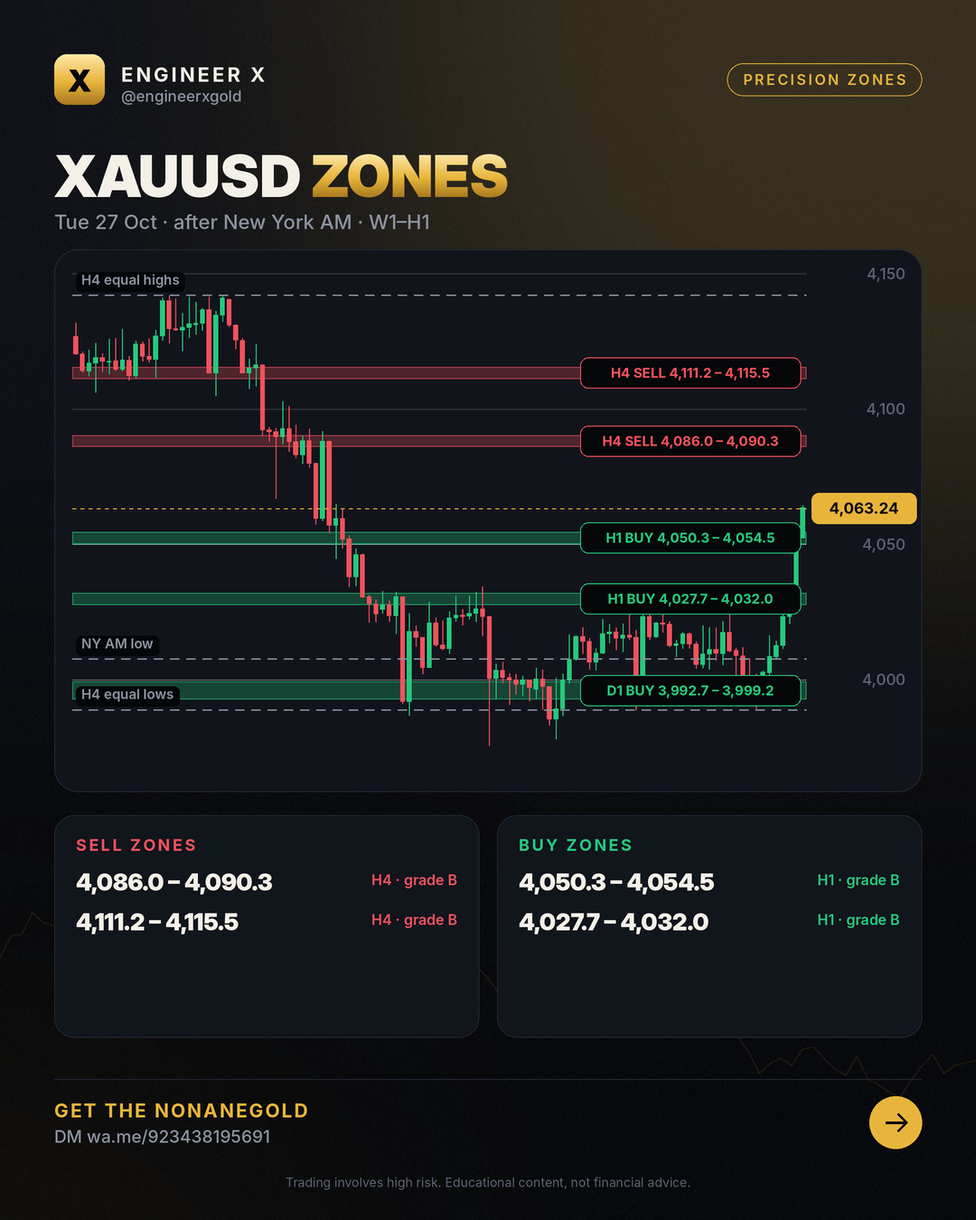
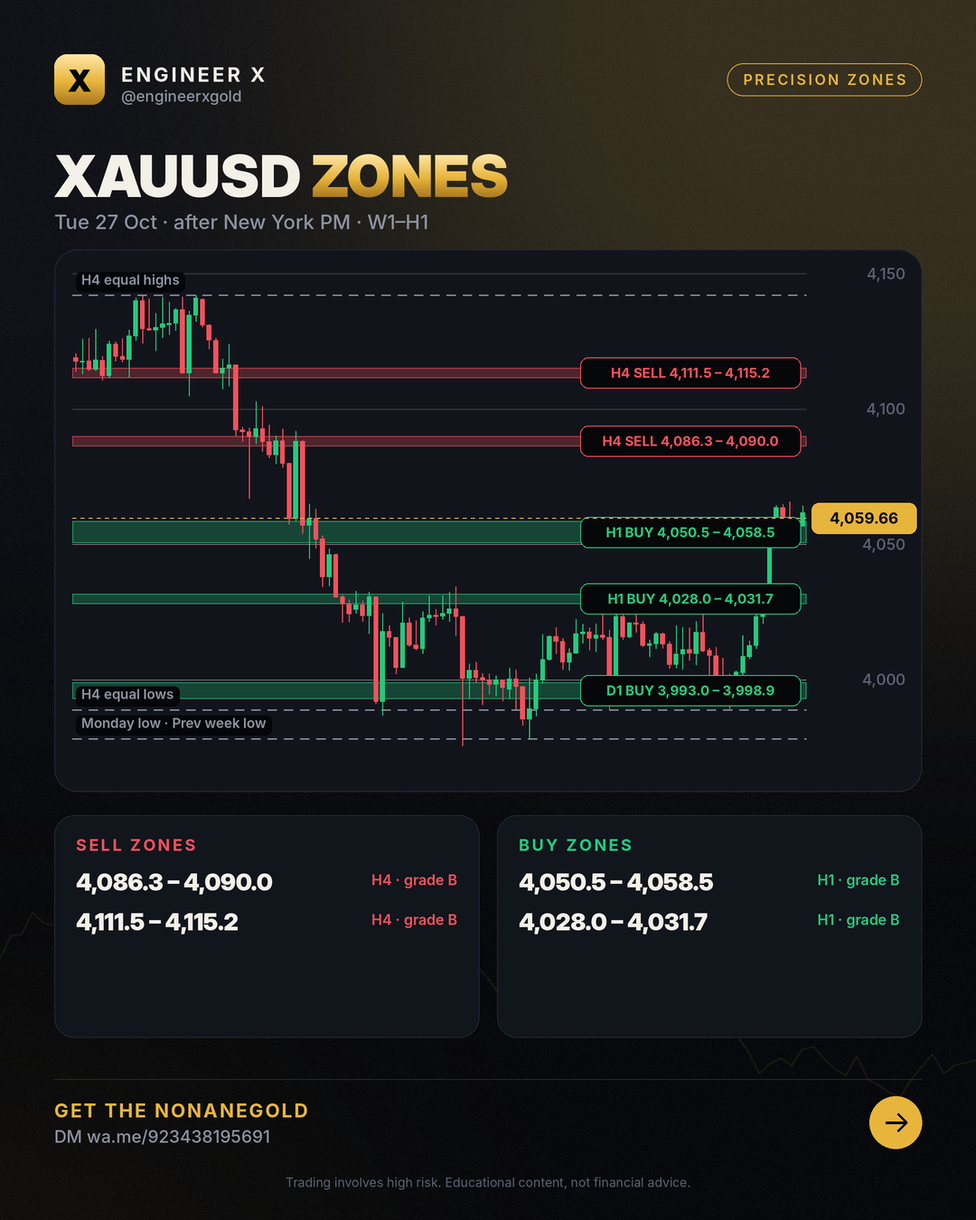
zones 2026-10-27 Tue 27 Oct · after New York PM · W1–H1

diff --git a/zones/index.html b/zones/index.html
@@ -4,7 +4,7 @@
 <meta charset="utf-8">
 <meta name="viewport" content="width=device-width,initial-scale=1">
 <title>XAUUSD Zones Today – Buy &amp; Sell Zones (H4, H1) | Engineer X</title>
-<meta name="description" content="XAUUSD buy and sell zones for 2026-10-27: tested W1, D1, H4 and H1 zones with invalidation levels, updated after the Asian, London and New York sessions. Price 4,063.24.">
+<meta name="description" content="XAUUSD buy and sell zones for 2026-10-27: tested W1, D1, H4 and H1 zones with invalidation levels, updated after the Asian, London and New York sessions. Price 4,059.66.">
 <meta name="robots" content="index,follow,max-image-preview:large,max-snippet:-1,max-video-preview:-1">
 <meta name="author" content="Engr. M Ahmad Mehmood">
 <link rel="canonical" href="https://engineerxgold.github.io/zones/">
@@ -12,7 +12,7 @@
 <link rel="apple-touch-icon" href="../img/logo.png">
 <meta property="og:site_name" content="Engineer X">
 <meta property="og:title" content="XAUUSD Zones Today – Buy &amp; Sell Zones (H4, H1) | Engineer X">
-<meta property="og:description" content="XAUUSD buy and sell zones for 2026-10-27: tested W1, D1, H4 and H1 zones with invalidation levels, updated after the Asian, London and New York sessions. Price 4,063.24.">
+<meta property="og:description" content="XAUUSD buy and sell zones for 2026-10-27: tested W1, D1, H4 and H1 zones with invalidation levels, updated after the Asian, London and New York sessions. Price 4,059.66.">
 <meta property="og:type" content="website">
 <meta property="og:url" content="https://engineerxgold.github.io/zones/">
 <meta property="og:image" content="https://engineerxgold.github.io/zones/img/2026-10-27.png">
@@ -22,7 +22,7 @@
 <meta property="og:locale" content="en_US">
 <meta name="twitter:card" content="summary_large_image">
 <meta name="twitter:title" content="XAUUSD Zones Today – Buy &amp; Sell Zones (H4, H1) | Engineer X">
-<meta name="twitter:description" content="XAUUSD buy and sell zones for 2026-10-27: tested W1, D1, H4 and H1 zones with invalidation levels, updated after the Asian, London and New York sessions. Price 4,063.24.">
+<meta name="twitter:description" content="XAUUSD buy and sell zones for 2026-10-27: tested W1, D1, H4 and H1 zones with invalidation levels, updated after the Asian, London and New York sessions. Price 4,059.66.">
 <meta name="twitter:image" content="https://engineerxgold.github.io/zones/img/2026-10-27.png">
 <meta name="twitter:image:alt" content="XAUUSD Zones Today – Buy &amp; Sell Zones (H4, H1) | Engineer X">
 
@@ -101,7 +101,7 @@ footer .fl a{color:var(--muted);margin-right:16px}
 <div class="wrap">
 <nav><a class="logo" href="../"><b>X</b>Engineer X</a>
 <div class="links"><a href="../zones/">Daily Zones</a><a href="../blog/">Learn</a><a href="../ea/">Gold EA</a><a href="../about/">About</a><a class="cta" href="https://wa.me/923438195691">Get the EA</a></div></nav>
-<section class="hero"><span class="chip">Updated Tue 27 Oct · after New York AM · W1–H1</span><h1>XAUUSD <span class="gold">precision zones</span></h1><p>XAUUSD buy and sell zones for 2026-10-27: tested W1, D1, H4 and H1 zones with invalidation levels, updated after the Asian, London and New York sessions. Price 4,063.24.</p></section><img src="img/2026-10-27.png" alt="Latest XAUUSD zone map" width="1080" height="1350"><section><h2>Current zones</h2><div style="overflow-x:auto"><table style="width:100%;border-collapse:collapse;font-size:15px"><tr><th align=left>Zone</th><th align=left>Price band</th><th>Grade</th><th align=left>Invalid</th><th align=left>Why</th></tr><tr><td>H4 sell</td><td><b>4,086.02 – 4,090.26</b></td><td>B</td><td>above 4,091.67</td><td>MSNR resistance levels (fresh): 4H A 4088.14, 1H A 4088.14, 30m A 4088.14. Wrong if price trades above 4091.67.</td></tr><tr><td>H4 sell</td><td><b>4,111.22 – 4,115.46</b></td><td>B</td><td>above 4,116.87</td><td>MSNR resistance level (fresh): 4H GAP 4113.34. Wrong if price trades above 4116.87.</td></tr><tr><td>H1 buy</td><td><b>4,050.26 – 4,054.50</b></td><td>B</td><td>below 4,048.85</td><td>MSNR support levels (fresh): 1H GAP 4052.38, 30m GAP 4052.38, 15m GAP 4052.38. Wrong if price trades below 4048.85.</td></tr><tr><td>H1 buy</td><td><b>4,027.72 – 4,031.96</b></td><td>B</td><td>below 4,026.31</td><td>MSNR support level (fresh): 1H GAP 4029.84. Wrong if price trades below 4026.31.</td></tr><tr><td>D1 buy</td><td><b>3,992.70 – 3,999.20</b></td><td>B</td><td>below 3,991.29</td><td>MSNR support levels (fresh): D V 3997.08, 4H V 3994.82. Wrong if price trades below 3991.29.</td></tr></table></div></section><section><h2>Honest scorecard</h2><div class="grid"><div class="card"><div class="n">160</div><p>zones published (30 days)</p></div><div class="card"><div class="n">88</div><p>held (moved 1 hourly ATR away)</p></div><div class="card"><div class="n">11</div><p>broke (traded beyond the invalidation)</p></div><div class="card"><div class="n">89%</div><p>hold rate of decided zones</p></div></div></section><div class="ctabox"><h3>🤖 Trade the zones with the NonaneGold</h3><p>Free signals group access + setup help Message us and we will help you set it up.</p><div class="btns"><a class="btn gold" href="https://wa.me/923438195691">Get the EA on Telegram</a><a class="btn ghost" href="../ea/">About the EA</a></div></div><section><h2>Archive</h2><div class="grid posts"><a class="card" href="2026-10-27/"><span class="date">2026-10-27</span><h3>XAUUSD zones 2026-10-27</h3></a><a class="card" href="2026-10-26/"><span class="date">2026-10-26</span><h3>XAUUSD zones 2026-10-26</h3></a><a class="card" href="2026-10-23/"><span class="date">2026-10-23</span><h3>XAUUSD zones 2026-10-23</h3></a><a class="card" href="2026-10-22/"><span class="date">2026-10-22</span><h3>XAUUSD zones 2026-10-22</h3></a><a class="card" href="2026-10-21/"><span class="date">2026-10-21</span><h3>XAUUSD zones 2026-10-21</h3></a><a class="card" href="2026-10-20/"><span class="date">2026-10-20</span><h3>XAUUSD zones 2026-10-20</h3></a><a class="card" href="2026-10-19/"><span class="date">2026-10-19</span><h3>XAUUSD zones 2026-10-19</h3></a><a class="card" href="2026-10-16/"><span class="date">2026-10-16</span><h3>XAUUSD zones 2026-10-16</h3></a><a class="card" href="2026-10-15/"><span class="date">2026-10-15</span><h3>XAUUSD zones 2026-10-15</h3></a><a class="card" href="2026-10-14/"><span class="date">2026-10-14</span><h3>XAUUSD zones 2026-10-14</h3></a><a class="card" href="2026-10-13/"><span class="date">2026-10-13</span><h3>XAUUSD zones 2026-10-13</h3></a></div></section>
+<section class="hero"><span class="chip">Updated Tue 27 Oct · after New York PM · W1–H1</span><h1>XAUUSD <span class="gold">precision zones</span></h1><p>XAUUSD buy and sell zones for 2026-10-27: tested W1, D1, H4 and H1 zones with invalidation levels, updated after the Asian, London and New York sessions. Price 4,059.66.</p></section><img src="img/2026-10-27.png" alt="Latest XAUUSD zone map" width="1080" height="1350"><section><h2>Current zones</h2><div style="overflow-x:auto"><table style="width:100%;border-collapse:collapse;font-size:15px"><tr><th align=left>Zone</th><th align=left>Price band</th><th>Grade</th><th align=left>Invalid</th><th align=left>Why</th></tr><tr><td>H4 sell</td><td><b>4,086.28 – 4,090.00</b></td><td>B</td><td>above 4,091.23</td><td>MSNR resistance levels (fresh): 4H A 4088.14, 1H A 4088.14. Wrong if price trades above 4091.23.</td></tr><tr><td>H4 sell</td><td><b>4,111.48 – 4,115.20</b></td><td>B</td><td>above 4,116.43</td><td>MSNR resistance level (fresh): 4H GAP 4113.34. Wrong if price trades above 4116.43.</td></tr><tr><td>H1 buy</td><td><b>4,050.52 – 4,058.50</b></td><td>B</td><td>below 4,049.29</td><td>MSNR support levels (fresh): 1H GAP 4052.38, 1H V 4056.64, 30m GAP 4052.38, 30m V 4055.50, 15m GAP 4052.38, 15m V 4055.38, 15m GAP 4056.64. Wrong if price trade</td></tr><tr><td>H1 buy</td><td><b>4,027.98 – 4,031.70</b></td><td>B</td><td>below 4,026.75</td><td>MSNR support level (fresh): 1H GAP 4029.84. Wrong if price trades below 4026.75.</td></tr><tr><td>D1 buy</td><td><b>3,992.96 – 3,998.94</b></td><td>B</td><td>below 3,991.73</td><td>MSNR support levels (fresh): D V 3997.08, 4H V 3994.82. Wrong if price trades below 3991.73.</td></tr></table></div></section><section><h2>Honest scorecard</h2><div class="grid"><div class="card"><div class="n">165</div><p>zones published (30 days)</p></div><div class="card"><div class="n">88</div><p>held (moved 1 hourly ATR away)</p></div><div class="card"><div class="n">11</div><p>broke (traded beyond the invalidation)</p></div><div class="card"><div class="n">89%</div><p>hold rate of decided zones</p></div></div></section><div class="ctabox"><h3>🤖 Trade the zones with the NonaneGold</h3><p>Free signals group access + setup help Message us and we will help you set it up.</p><div class="btns"><a class="btn gold" href="https://wa.me/923438195691">Get the EA on Telegram</a><a class="btn ghost" href="../ea/">About the EA</a></div></div><section><h2>Archive</h2><div class="grid posts"><a class="card" href="2026-10-27/"><span class="date">2026-10-27</span><h3>XAUUSD zones 2026-10-27</h3></a><a class="card" href="2026-10-26/"><span class="date">2026-10-26</span><h3>XAUUSD zones 2026-10-26</h3></a><a class="card" href="2026-10-23/"><span class="date">2026-10-23</span><h3>XAUUSD zones 2026-10-23</h3></a><a class="card" href="2026-10-22/"><span class="date">2026-10-22</span><h3>XAUUSD zones 2026-10-22</h3></a><a class="card" href="2026-10-21/"><span class="date">2026-10-21</span><h3>XAUUSD zones 2026-10-21</h3></a><a class="card" href="2026-10-20/"><span class="date">2026-10-20</span><h3>XAUUSD zones 2026-10-20</h3></a><a class="card" href="2026-10-19/"><span class="date">2026-10-19</span><h3>XAUUSD zones 2026-10-19</h3></a><a class="card" href="2026-10-16/"><span class="date">2026-10-16</span><h3>XAUUSD zones 2026-10-16</h3></a><a class="card" href="2026-10-15/"><span class="date">2026-10-15</span><h3>XAUUSD zones 2026-10-15</h3></a><a class="card" href="2026-10-14/"><span class="date">2026-10-14</span><h3>XAUUSD zones 2026-10-14</h3></a><a class="card" href="2026-10-13/"><span class="date">2026-10-13</span><h3>XAUUSD zones 2026-10-13</h3></a></div></section>
 <footer>
 <div class="warn"><b>Risk warning:</b> Trading gold, forex and CFDs carries a high risk of losing money and is not suitable for everyone. Past results do not guarantee future results. Everything on this site is educational and not financial advice. We are an introducing partner of our broker and may earn a commission on accounts opened through our link.</div>
 <p class="fl" style="margin-top:18px"><a href="../about/">About &amp; methodology</a><a href="../privacy.html">Privacy</a><a href="../terms.html">Terms &amp; risk disclosure</a><a href="../feed.xml">RSS</a><a href="https://t.me/engineerxgold">Telegram</a></p>

diff --git a/zones/2026-10-27/index.html b/zones/2026-10-27/index.html
@@ -4,7 +4,7 @@
 <meta charset="utf-8">
 <meta name="viewport" content="width=device-width,initial-scale=1">
 <title>Xauusd Analysis – 27 Oct 2026 (W1–H1)</title>
-<meta name="description" content="XAUUSD buy and sell zones for 2026-10-27: tested W1, D1, H4 and H1 zones with invalidation levels, updated after the Asian, London and New York sessions. Price 4,063.24.">
+<meta name="description" content="XAUUSD buy and sell zones for 2026-10-27: tested W1, D1, H4 and H1 zones with invalidation levels, updated after the Asian, London and New York sessions. Price 4,059.66.">
 <meta name="robots" content="index,follow,max-image-preview:large,max-snippet:-1,max-video-preview:-1">
 <meta name="author" content="Engr. M Ahmad Mehmood">
 <link rel="canonical" href="https://engineerxgold.github.io/zones/2026-10-27/">
@@ -12,7 +12,7 @@
 <link rel="apple-touch-icon" href="../../img/logo.png">
 <meta property="og:site_name" content="Engineer X">
 <meta property="og:title" content="Xauusd Analysis – 27 Oct 2026 (W1–H1)">
-<meta property="og:description" content="XAUUSD buy and sell zones for 2026-10-27: tested W1, D1, H4 and H1 zones with invalidation levels, updated after the Asian, London and New York sessions. Price 4,063.24.">
+<meta property="og:description" content="XAUUSD buy and sell zones for 2026-10-27: tested W1, D1, H4 and H1 zones with invalidation levels, updated after the Asian, London and New York sessions. Price 4,059.66.">
 <meta property="og:type" content="article">
 <meta property="og:url" content="https://engineerxgold.github.io/zones/2026-10-27/">
 <meta property="og:image" content="https://engineerxgold.github.io/zones/img/2026-10-27.png">
@@ -22,7 +22,7 @@
 <meta property="og:locale" content="en_US">
 <meta name="twitter:card" content="summary_large_image">
 <meta name="twitter:title" content="Xauusd Analysis – 27 Oct 2026 (W1–H1)">
-<meta name="twitter:description" content="XAUUSD buy and sell zones for 2026-10-27: tested W1, D1, H4 and H1 zones with invalidation levels, updated after the Asian, London and New York sessions. Price 4,063.24.">
+<meta name="twitter:description" content="XAUUSD buy and sell zones for 2026-10-27: tested W1, D1, H4 and H1 zones with invalidation levels, updated after the Asian, London and New York sessions. Price 4,059.66.">
 <meta name="twitter:image" content="https://engineerxgold.github.io/zones/img/2026-10-27.png">
 <meta name="twitter:image:alt" content="Xauusd Analysis – 27 Oct 2026 (W1–H1)">
 
@@ -32,7 +32,7 @@
 <link rel="preconnect" href="https://fonts.googleapis.com">
 <link rel="preconnect" href="https://fonts.gstatic.com" crossorigin>
 <link href="https://fonts.googleapis.com/css2?family=Inter:wght@400;500;600;800;900&display=swap" rel="stylesheet">
-<script type="application/ld+json">{"@context": "https://schema.org", "@type": "Organization", "@id": "https://engineerxgold.github.io/#organization", "name": "Engineer X", "url": "https://engineerxgold.github.io/", "logo": {"@type": "ImageObject", "url": "https://engineerxgold.github.io/img/logo.png", "width": 512, "height": 512}, "sameAs": ["https://t.me/engineerxgold"]}</script><script type="application/ld+json">{"@context": "https://schema.org", "@type": "Article", "headline": "Xauusd Analysis – 27 Oct 2026 (W1–H1)", "datePublished": "2026-10-27T08:00:00+05:00", "dateModified": "2026-10-27T21:04:38+05:00", "author": {"@type": "Person", "@id": "https://engineerxgold.github.io/about/#author", "name": "Engr. M Ahmad Mehmood", "url": "https://engineerxgold.github.io/about/", "jobTitle": "MQL5 Expert Advisor developer and gold market analyst", "worksFor": {"@id": "https://engineerxgold.github.io/#organization"}}, "publisher": {"@id": "https://engineerxgold.github.io/#organization"}, "image": "https://engineerxgold.github.io/zones/img/2026-10-27.png", "mainEntityOfPage": "https://engineerxgold.github.io/zones/2026-10-27/"}</script>
+<script type="application/ld+json">{"@context": "https://schema.org", "@type": "Organization", "@id": "https://engineerxgold.github.io/#organization", "name": "Engineer X", "url": "https://engineerxgold.github.io/", "logo": {"@type": "ImageObject", "url": "https://engineerxgold.github.io/img/logo.png", "width": 512, "height": 512}, "sameAs": ["https://t.me/engineerxgold"]}</script><script type="application/ld+json">{"@context": "https://schema.org", "@type": "Article", "headline": "Xauusd Analysis – 27 Oct 2026 (W1–H1)", "datePublished": "2026-10-27T08:00:00+05:00", "dateModified": "2026-10-28T02:02:56+05:00", "author": {"@type": "Person", "@id": "https://engineerxgold.github.io/about/#author", "name": "Engr. M Ahmad Mehmood", "url": "https://engineerxgold.github.io/about/", "jobTitle": "MQL5 Expert Advisor developer and gold market analyst", "worksFor": {"@id": "https://engineerxgold.github.io/#organization"}}, "publisher": {"@id": "https://engineerxgold.github.io/#organization"}, "image": "https://engineerxgold.github.io/zones/img/2026-10-27.png", "mainEntityOfPage": "https://engineerxgold.github.io/zones/2026-10-27/"}</script>
 
 <style>
 :root{--gold:#E7B53B;--gold-hi:#FFE7A8;--bg:#07080B;--bg2:#0E1016;--panel:#12151D;--line:#232836;--green:#25C97D;--red:#F0525C;--text:#F3F0E8;--muted:#8C93A1}
@@ -101,7 +101,7 @@ footer .fl a{color:var(--muted);margin-right:16px}
 <div class="wrap">
 <nav><a class="logo" href="../../"><b>X</b>Engineer X</a>
 <div class="links"><a href="../../zones/">Daily Zones</a><a href="../../blog/">Learn</a><a href="../../ea/">Gold EA</a><a href="../../about/">About</a><a class="cta" href="https://wa.me/923438195691">Get the EA</a></div></nav>
-<article><p class="crumbs"><a href="../../">Home</a> › <a href="../">Zones</a> › 2026-10-27</p><h1>Xauusd Analysis – 27 Oct 2026 (W1–H1)</h1><p class="byline">Tue 27 Oct · after New York AM · W1–H1 · by Engr. M Ahmad Mehmood</p><img src="../img/2026-10-27.png" alt="XAUUSD zone map 2026-10-27" width="1080" height="1350" loading="eager"><h2>Zones</h2><div style="overflow-x:auto"><table style="width:100%;border-collapse:collapse;font-size:15px"><tr><th align=left>Zone</th><th align=left>Price band</th><th>Grade</th><th align=left>Invalid</th><th align=left>Why</th></tr><tr><td>H4 sell</td><td><b>4,086.02 – 4,090.26</b></td><td>B</td><td>above 4,091.67</td><td>MSNR resistance levels (fresh): 4H A 4088.14, 1H A 4088.14, 30m A 4088.14. Wrong if price trades above 4091.67.</td></tr><tr><td>H4 sell</td><td><b>4,111.22 – 4,115.46</b></td><td>B</td><td>above 4,116.87</td><td>MSNR resistance level (fresh): 4H GAP 4113.34. Wrong if price trades above 4116.87.</td></tr><tr><td>H1 buy</td><td><b>4,050.26 – 4,054.50</b></td><td>B</td><td>below 4,048.85</td><td>MSNR support levels (fresh): 1H GAP 4052.38, 30m GAP 4052.38, 15m GAP 4052.38. Wrong if price trades below 4048.85.</td></tr><tr><td>H1 buy</td><td><b>4,027.72 – 4,031.96</b></td><td>B</td><td>below 4,026.31</td><td>MSNR support level (fresh): 1H GAP 4029.84. Wrong if price trades below 4026.31.</td></tr><tr><td>D1 buy</td><td><b>3,992.70 – 3,999.20</b></td><td>B</td><td>below 3,991.29</td><td>MSNR support levels (fresh): D V 3997.08, 4H V 3994.82. Wrong if price trades below 3991.29.</td></tr></table></div><h2>How to read this map</h2><p>Bands are where price is expected to react; they are not entries. Trading beyond the invalidation price ends the zone; each zone counts once (first touch). Highs and lows listed as liquidity are targets: on 10 years of gold price ran through them more often than through random levels.</p><div class="ctabox"><h3>🤖 Trade the zones with the NonaneGold</h3><p>Free signals group access + setup help Message us and we will help you set it up.</p><div class="btns"><a class="btn gold" href="https://wa.me/923438195691">Get the EA on Telegram</a><a class="btn ghost" href="../../ea/">About the EA</a></div></div></article>
+<article><p class="crumbs"><a href="../../">Home</a> › <a href="../">Zones</a> › 2026-10-27</p><h1>Xauusd Analysis – 27 Oct 2026 (W1–H1)</h1><p class="byline">Tue 27 Oct · after New York PM · W1–H1 · by Engr. M Ahmad Mehmood</p><img src="../img/2026-10-27.png" alt="XAUUSD zone map 2026-10-27" width="1080" height="1350" loading="eager"><h2>Zones</h2><div style="overflow-x:auto"><table style="width:100%;border-collapse:collapse;font-size:15px"><tr><th align=left>Zone</th><th align=left>Price band</th><th>Grade</th><th align=left>Invalid</th><th align=left>Why</th></tr><tr><td>H4 sell</td><td><b>4,086.28 – 4,090.00</b></td><td>B</td><td>above 4,091.23</td><td>MSNR resistance levels (fresh): 4H A 4088.14, 1H A 4088.14. Wrong if price trades above 4091.23.</td></tr><tr><td>H4 sell</td><td><b>4,111.48 – 4,115.20</b></td><td>B</td><td>above 4,116.43</td><td>MSNR resistance level (fresh): 4H GAP 4113.34. Wrong if price trades above 4116.43.</td></tr><tr><td>H1 buy</td><td><b>4,050.52 – 4,058.50</b></td><td>B</td><td>below 4,049.29</td><td>MSNR support levels (fresh): 1H GAP 4052.38, 1H V 4056.64, 30m GAP 4052.38, 30m V 4055.50, 15m GAP 4052.38, 15m V 4055.38, 15m GAP 4056.64. Wrong if price trade</td></tr><tr><td>H1 buy</td><td><b>4,027.98 – 4,031.70</b></td><td>B</td><td>below 4,026.75</td><td>MSNR support level (fresh): 1H GAP 4029.84. Wrong if price trades below 4026.75.</td></tr><tr><td>D1 buy</td><td><b>3,992.96 – 3,998.94</b></td><td>B</td><td>below 3,991.73</td><td>MSNR support levels (fresh): D V 3997.08, 4H V 3994.82. Wrong if price trades below 3991.73.</td></tr></table></div><h2>How to read this map</h2><p>Bands are where price is expected to react; they are not entries. Trading beyond the invalidation price ends the zone; each zone counts once (first touch). Highs and lows listed as liquidity are targets: on 10 years of gold price ran through them more often than through random levels.</p><div class="ctabox"><h3>🤖 Trade the zones with the NonaneGold</h3><p>Free signals group access + setup help Message us and we will help you set it up.</p><div class="btns"><a class="btn gold" href="https://wa.me/923438195691">Get the EA on Telegram</a><a class="btn ghost" href="../../ea/">About the EA</a></div></div></article>
 <footer>
 <div class="warn"><b>Risk warning:</b> Trading gold, forex and CFDs carries a high risk of losing money and is not suitable for everyone. Past results do not guarantee future results. Everything on this site is educational and not financial advice. We are an introducing partner of our broker and may earn a commission on accounts opened through our link.</div>
 <p class="fl" style="margin-top:18px"><a href="../../about/">About &amp; methodology</a><a href="../../privacy.html">Privacy</a><a href="../../terms.html">Terms &amp; risk disclosure</a><a href="../../feed.xml">RSS</a><a href="https://t.me/engineerxgold">Telegram</a></p>

diff --git a/index.html b/index.html
@@ -101,7 +101,7 @@ footer .fl a{color:var(--muted);margin-right:16px}
 <div class="wrap">
 <nav><a class="logo" href="./"><b>X</b>Engineer X</a>
 <div class="links"><a href="./zones/">Daily Zones</a><a href="./blog/">Learn</a><a href="./ea/">Gold EA</a><a href="./about/">About</a><a class="cta" href="https://wa.me/923438195691">Get the EA</a></div></nav>
-<section class="hero"><span class="chip">XAUUSD · W1–H1 · every session</span><h1>Gold <span class="gold">precision zones</span>, updated after every session</h1><p>Tested buy and sell zones with clear invalidation, a scorecard of every result, and the NonaneGold for traders who want it automated.</p><div class="btns"><a class="btn gold" href="zones/">See today's zones</a><a class="btn ghost" href="https://wa.me/923438195691">Get the EA</a></div></section><section><h2>Latest map Tue 27 Oct · after New York AM · W1–H1</h2><img src="zones/img/2026-10-27.png" alt="Latest XAUUSD zones" width="1080" height="1350"></section><div class="ctabox"><h3>🤖 Trade the zones with the NonaneGold</h3><p>Free signals group access + setup help Message us and we will help you set it up.</p><div class="btns"><a class="btn gold" href="https://wa.me/923438195691">Get the EA on Telegram</a><a class="btn ghost" href="ea/">About the EA</a></div></div><section><h2>Learn</h2><div class="grid posts"><a class="card" href="blog/xauusd-analysis-key-gold-trading-zones-liquidity/"><span class="date">2026-10-27</span><h3>XAUUSD Analysis: Key Gold Trading Zones &amp; Liquidity</h3></a><a class="card" href="blog/gold-supply-and-demand-zones-for-xauusd-traders/"><span class="date">2026-10-26</span><h3>Gold supply and demand zones for XAUUSD traders</h3></a><a class="card" href="blog/xauusd-price-navigating-key-zones-and-liquidity/"><span class="date">2026-10-24</span><h3>xauusd price: Navigating Key Zones and Liquidity</h3></a><a class="card" href="blog/gold-supply-and-demand-zones-h4-trend-map/"><span class="date">2026-10-23</span><h3>Gold Supply and Demand Zones: H4 Trend Map</h3></a><a class="card" href="blog/gold-forecast-critical-h4-bearish-zones-liquidity/"><span class="date">2026-10-21</span><h3>Gold Forecast: Critical H4 Bearish Zones &amp; Liquidity</h3></a><a class="card" href="blog/gold-supply-and-demand-zones-h4-w1-map-analysis/"><span class="date">2026-10-20</span><h3>Gold Supply and Demand Zones: H4 &amp; W1 Map Analysis</h3></a></div></section><section><h2>FAQ</h2><details><summary>What is a precision zone?</summary><p>A point of interest from a trading book (OTE 0.705, balanced price range, weekly close level, daily order block) that held better than random levels on 10 years of gold. Each zone has an invalidation price.</p></details><details><summary>How often are the zones updated?</summary><p>A daily plan at the Asian open, then after the Asian, London and New York sessions.</p></details><details><summary>Are these trade signals?</summary><p>No. Zones are areas to watch. Wait for your own confirmation and manage risk.</p></details><details><summary>How do I get the Gold EA?</summary><p>Message us on Telegram or WhatsApp; we answer and help with the setup.</p></details></section>
+<section class="hero"><span class="chip">XAUUSD · W1–H1 · every session</span><h1>Gold <span class="gold">precision zones</span>, updated after every session</h1><p>Tested buy and sell zones with clear invalidation, a scorecard of every result, and the NonaneGold for traders who want it automated.</p><div class="btns"><a class="btn gold" href="zones/">See today's zones</a><a class="btn ghost" href="https://wa.me/923438195691">Get the EA</a></div></section><section><h2>Latest map Tue 27 Oct · after New York PM · W1–H1</h2><img src="zones/img/2026-10-27.png" alt="Latest XAUUSD zones" width="1080" height="1350"></section><div class="ctabox"><h3>🤖 Trade the zones with the NonaneGold</h3><p>Free signals group access + setup help Message us and we will help you set it up.</p><div class="btns"><a class="btn gold" href="https://wa.me/923438195691">Get the EA on Telegram</a><a class="btn ghost" href="ea/">About the EA</a></div></div><section><h2>Learn</h2><div class="grid posts"><a class="card" href="blog/xauusd-analysis-key-gold-trading-zones-liquidity/"><span class="date">2026-10-27</span><h3>XAUUSD Analysis: Key Gold Trading Zones &amp; Liquidity</h3></a><a class="card" href="blog/gold-supply-and-demand-zones-for-xauusd-traders/"><span class="date">2026-10-26</span><h3>Gold supply and demand zones for XAUUSD traders</h3></a><a class="card" href="blog/xauusd-price-navigating-key-zones-and-liquidity/"><span class="date">2026-10-24</span><h3>xauusd price: Navigating Key Zones and Liquidity</h3></a><a class="card" href="blog/gold-supply-and-demand-zones-h4-trend-map/"><span class="date">2026-10-23</span><h3>Gold Supply and Demand Zones: H4 Trend Map</h3></a><a class="card" href="blog/gold-forecast-critical-h4-bearish-zones-liquidity/"><span class="date">2026-10-21</span><h3>Gold Forecast: Critical H4 Bearish Zones &amp; Liquidity</h3></a><a class="card" href="blog/gold-supply-and-demand-zones-h4-w1-map-analysis/"><span class="date">2026-10-20</span><h3>Gold Supply and Demand Zones: H4 &amp; W1 Map Analysis</h3></a></div></section><section><h2>FAQ</h2><details><summary>What is a precision zone?</summary><p>A point of interest from a trading book (OTE 0.705, balanced price range, weekly close level, daily order block) that held better than random levels on 10 years of gold. Each zone has an invalidation price.</p></details><details><summary>How often are the zones updated?</summary><p>A daily plan at the Asian open, then after the Asian, London and New York sessions.</p></details><details><summary>Are these trade signals?</summary><p>No. Zones are areas to watch. Wait for your own confirmation and manage risk.</p></details><details><summary>How do I get the Gold EA?</summary><p>Message us on Telegram or WhatsApp; we answer and help with the setup.</p></details></section>
 <footer>
 <div class="warn"><b>Risk warning:</b> Trading gold, forex and CFDs carries a high risk of losing money and is not suitable for everyone. Past results do not guarantee future results. Everything on this site is educational and not financial advice. We are an introducing partner of our broker and may earn a commission on accounts opened through our link.</div>
 <p class="fl" style="margin-top:18px"><a href="./about/">About &amp; methodology</a><a href="./privacy.html">Privacy</a><a href="./terms.html">Terms &amp; risk disclosure</a><a href="./feed.xml">RSS</a><a href="https://t.me/engineerxgold">Telegram</a></p>
